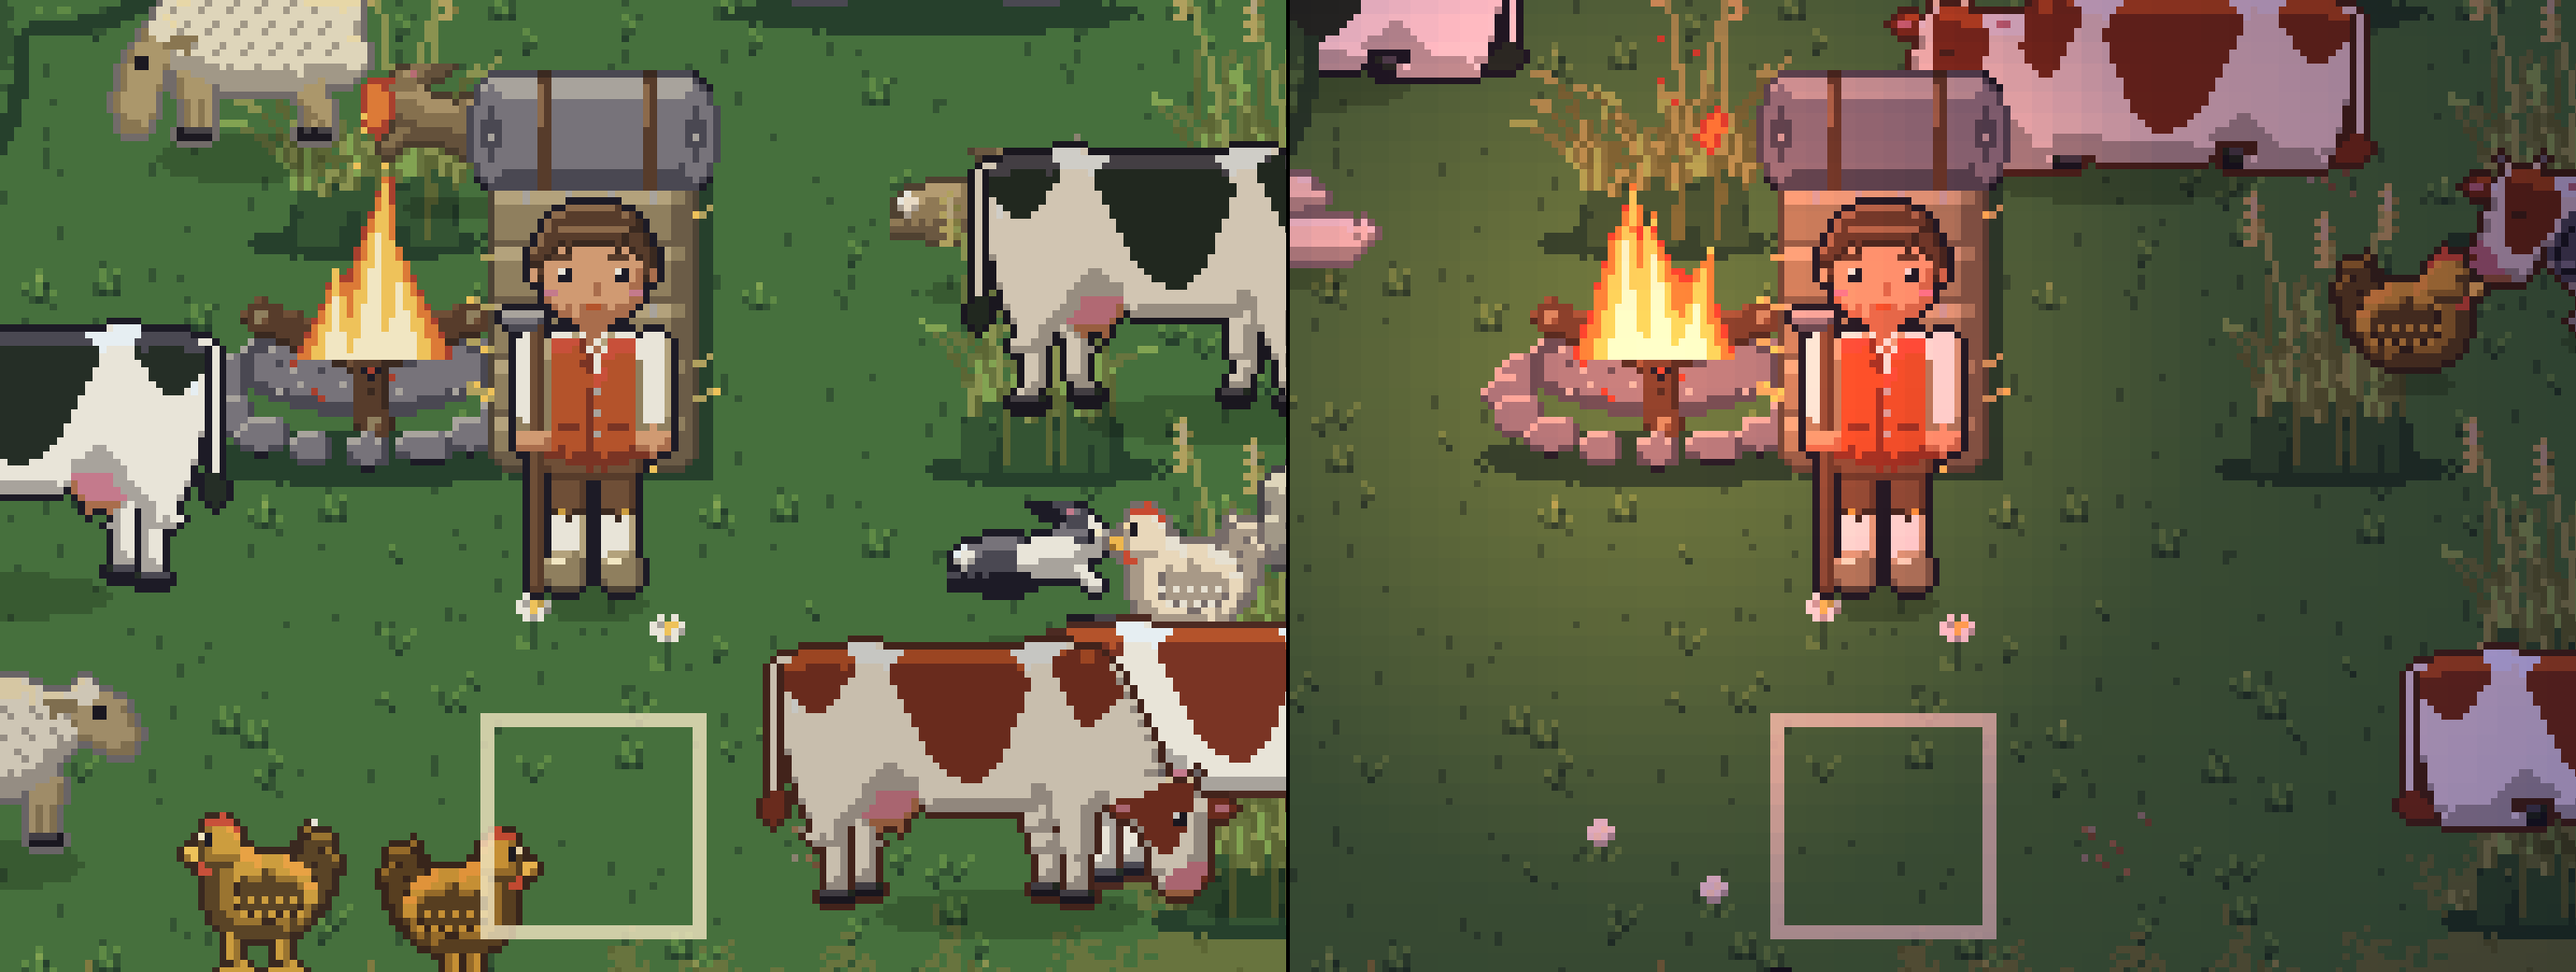
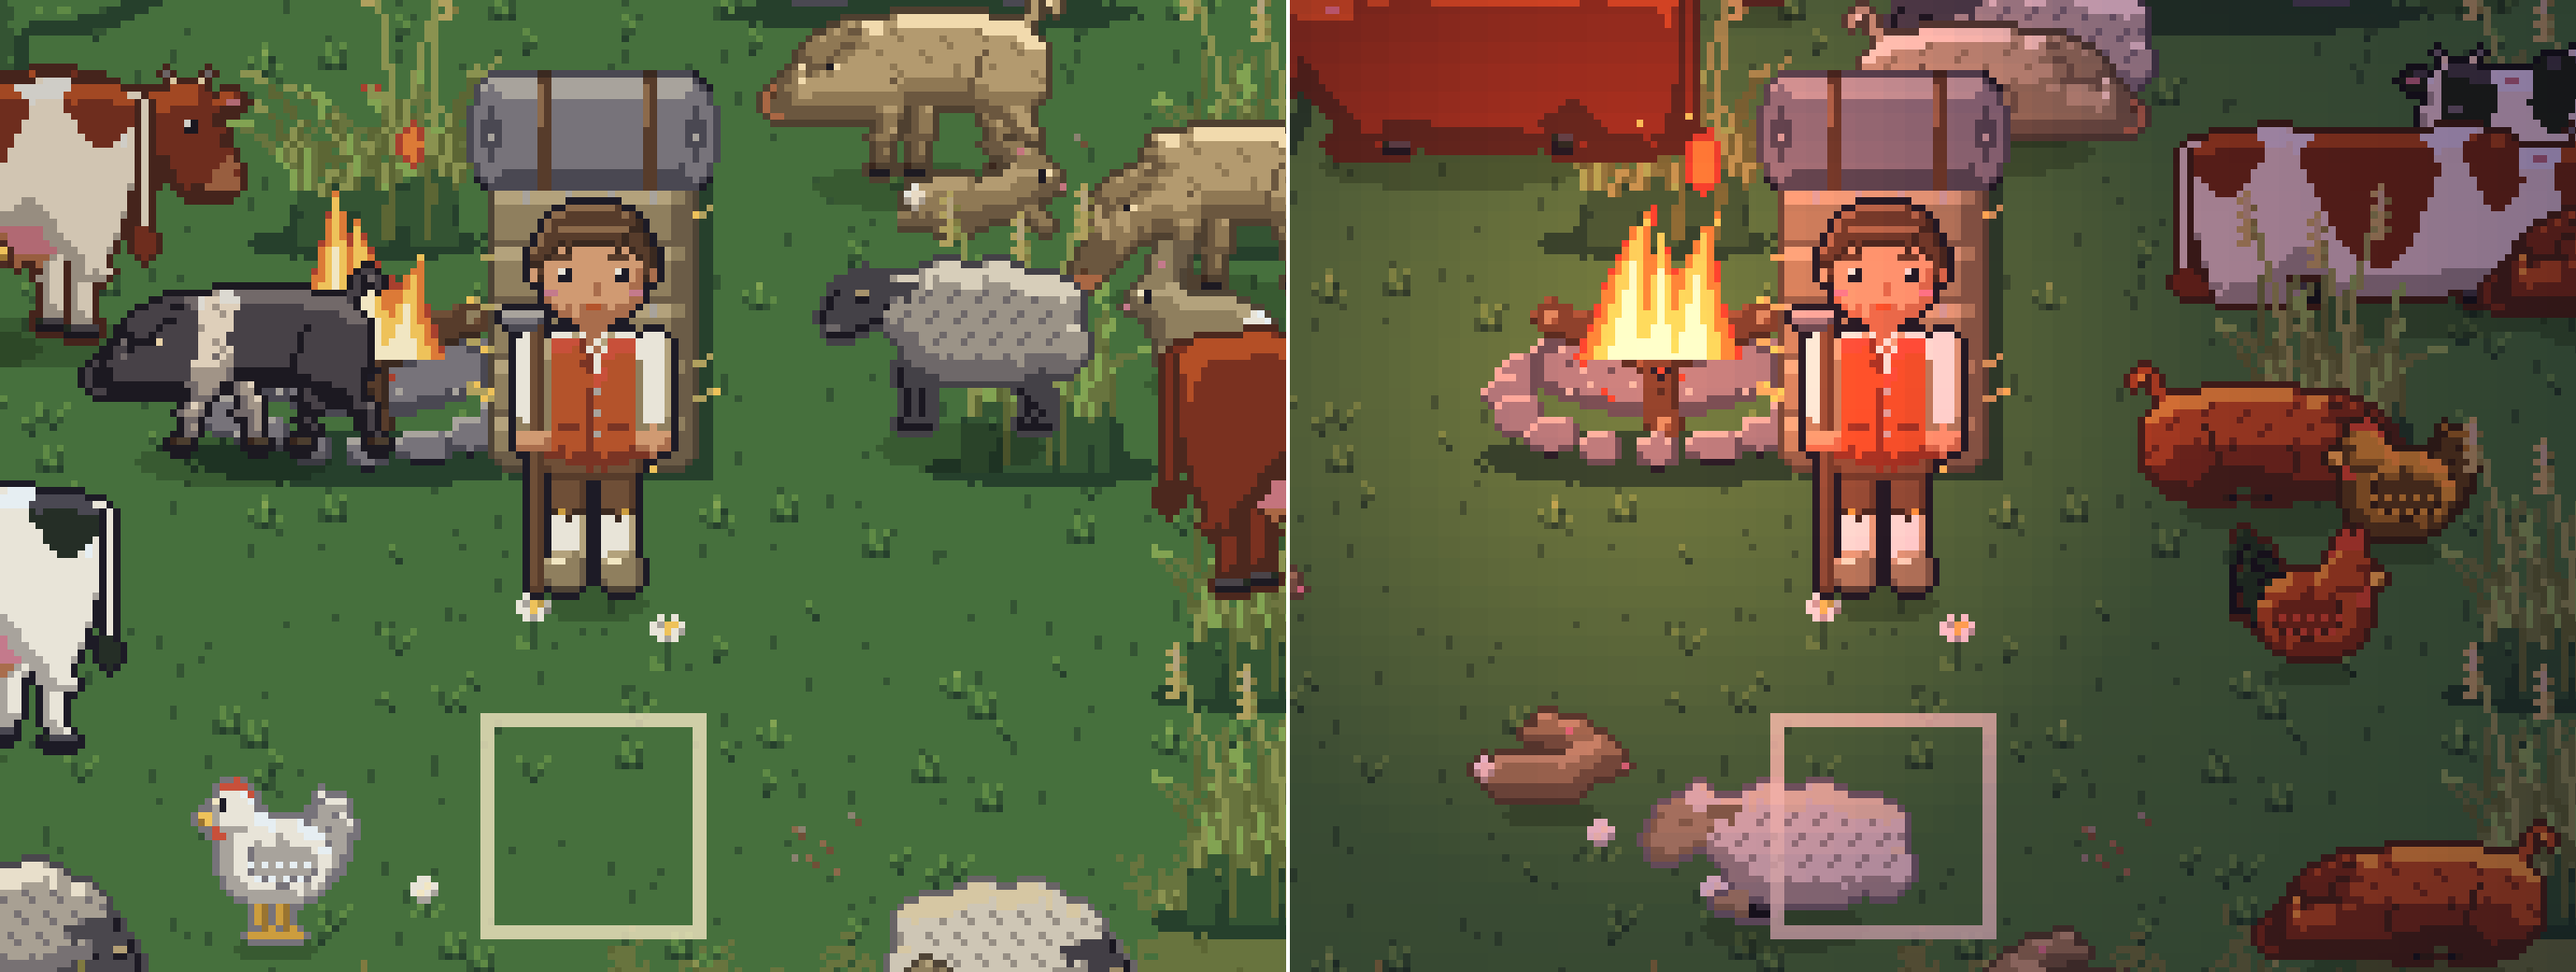
Pig pen: --yard shows a pen with a pig of each look, with README pictures
The farm yard of --yard gets a pig pen below it (a ring of fence with its
gate shut, the shelter, a trough and a feeding trough in it, and a pig of
each look); docs/screenshots/pig-pen.png shows it in both arts, and the
livestock picture is re-taken with pigs in the herd.

diff --git a/README.md b/README.md
@@ -170,13 +170,14 @@ anew, and a planted tile never grows over. The days of winter don't count. The n
 
 ### Livestock
 
-Cows, sheep, chickens and rabbits of the region: red-brown Angler, black pied and red pied
-cattle; white, grey and black-faced sheep; brown and white hens and a rooster; agouti, white
-and Dutch rabbits, each with a slight tint of its own. They wander, graze (the hens peck for
+Cows, pigs, sheep, chickens and rabbits of the region: red-brown Angler, black pied and red pied
+cattle; bristly pigs of the old breeds, red-brown, sandy, saddleback and spotted; white, grey and
+black-faced sheep; brown and white hens and a rooster; agouti, white and Dutch rabbits, each with
+a slight tint of its own. They wander, graze (the hens peck for
 seeds and worms), keep out of water and away from anything solid, and the rabbits hop off
 when you come close. At night they lie down and sleep until the morning. For now they come
-from the console (`spawn cow 3`); they are saved with the game. Milk, wool and pens come later
-(see the farm yard below for eggs, food and water). The numbers are in [data/livestock.cfg](data/livestock.cfg). Like the
+from the console (`spawn cow 3`); they are saved with the game. Milk and wool come later (see
+the farm yard below for eggs, food, water and the pig pen). The numbers are in [data/livestock.cfg](data/livestock.cfg). Like the
 people, the animals are drawn at 32 pixels per tile, with legs that bend at the joints, an eye
 with a glint and the marks of their coats.
 
@@ -252,6 +253,11 @@ workbench and put them down piece by piece round a few tiles, with a trough and 
 inside. The fence joins up as you lay it. You walk through the gate whether it is shut or open; the
 animals only through an open one, so a pen with its gate shut keeps its pigs in, whatever they
 look for and however long you sleep. The use key with an empty hand opens and shuts the gate.
+
+![A pig pen at noon, in the 32 px art and in the classic art: the fence of split oak rails with its gate, the pigs' shelter, a feeding trough and a trough, and a pig of each look](docs/screenshots/pig-pen.png)
+
+`make screenshot SIZE=1120x500 AT=73,-6 TIME=12:00 ZOOM=1.25 ARGS="--yard=40,-20 --day=45"` (and
+with `--classic-art`) puts the pen in view, each cropped to its left 700 px.
 
 ![The farm yard at noon: the chicken coop with its hens, the draw well, four troughs and four hay racks from empty to full, a cow at the water and a sheep at the hay](docs/screenshots/farm-yard.png)
 
